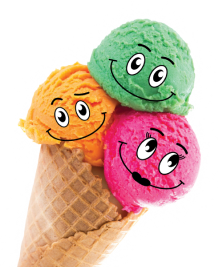
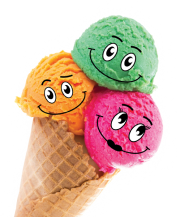
1.2

diff --git a/css/main.min.css b/css/main.min.css
@@ -1,1 +1,1 @@
-body{background-color:#84a178}h1,h2,h3,h4,p{margin-top:0;margin-bottom:0}ul{margin-top:0;margin-bottom:0;padding:0}img{display:block;max-width:100%;height:auto}button{cursor:pointer}.list{list-style:none}.link{text-decoration:none}.container{padding-left:20px;padding-right:20px}@media screen and (min-width: 480px){.container{margin-left:auto;margin-right:auto;width:480px}}@media screen and (min-width: 768px){.container{width:768px}}@media screen and (min-width: 1200px){.container{width:1200px;padding:0}}.header{margin-top:14px;margin-bottom:40px}.header__container{display:flex;align-content:center;justify-content:space-between;margin:auto}.mobile-menu__btn{background-color:rgba(0,0,0,0);border:none}.logo-top{position:relative}.logo-top__ce{font-family:Seymour One;font-size:18px;font-weight:400;line-height:22px;letter-spacing:-0.1em;position:absolute;transform:translateY(110%) translateX(-20%)}@supports(-webkit-text-stroke: 0.88px #F8D24E){.logo-top__ce{text-shadow:none;color:rgba(0,0,0,0);-webkit-text-stroke:.88px #f8d24e}}.title{font-family:"Seymour One";font-size:26px;font-weight:400;line-height:33px;letter-spacing:.04em;text-transform:uppercase;color:#fcfcfc;max-width:250px}.title__span{font-size:33px}.products-btn{font-family:"Montserrat";font-weight:600;font-size:12px;line-height:15px;padding:11px 26px;color:#000;background-color:rgba(0,0,0,0);border:2px solid #f8d24e;border-radius:8px;margin-top:32px;margin-right:12px}.hero__link{font-family:"Montserrat";font-weight:600;font-size:12px;line-height:15px;text-decoration-line:underline;color:#f8d24e}.hero__images{position:relative;width:320px;height:200px;padding-right:20px}.hero__image-dots{position:absolute;transform:translate(-15px, 130px);overflow-x:hidden;transition:transform 700ms cubic-bezier(0.39, 0.575, 0.565, 1)}.hero__image-icecream{position:absolute;transform:translate(70px, -10px);transition:transform 700ms cubic-bezier(0.39, 0.575, 0.565, 1)}/*# sourceMappingURL=main.min.css.map */
+body{background-color:#84a178}h1,h2,h3,h4,p{margin-top:0;margin-bottom:0}ul{margin-top:0;margin-bottom:0;padding:0}img{display:block;max-width:100%;height:auto}button{cursor:pointer}.list{list-style:none}.link{text-decoration:none}.container{padding-left:20px;padding-right:20px}@media screen and (min-width: 480px){.container{margin-left:auto;margin-right:auto;width:480px}}@media screen and (min-width: 768px){.container{width:768px}}@media screen and (min-width: 1200px){.container{width:1200px;padding:0}}.header{margin-top:12px;margin-bottom:50px}.header__container{display:flex;align-content:center;justify-content:space-between;margin:auto}.mobile-menu__btn{background-color:rgba(0,0,0,0);border:none}.logo-top{position:relative}.logo-top__ce{font-family:Seymour One;font-size:18px;font-weight:400;line-height:22px;letter-spacing:-0.1em;position:absolute;transform:translateY(110%) translateX(-20%)}@supports(-webkit-text-stroke: 0.88px #F8D24E){.logo-top__ce{text-shadow:none;color:rgba(0,0,0,0);-webkit-text-stroke:.88px #f8d24e}}.title{font-family:"Seymour One";font-size:26px;font-weight:400;line-height:33px;letter-spacing:.04em;text-transform:uppercase;color:#fcfcfc;max-width:250px}.title__span{font-size:34px}.products-btn{font-family:"Montserrat";font-weight:600;font-size:12px;line-height:15px;padding:11px 26px;color:#000;background-color:rgba(0,0,0,0);border:2px solid #f8d24e;border-radius:8px;margin-top:32px;margin-right:12px}.hero__link{font-family:"Montserrat";font-weight:600;font-size:12px;line-height:15px;text-decoration-line:underline;color:#f8d24e}.hero__images{position:relative}.hero__image-dots{position:absolute;max-width:100vw;transform:translate(-10px, 150px);transition:transform 800ms cubic-bezier(0.39, 0.575, 0.565, 1)}.hero__image-icecream{position:absolute;transform:translate(60px, -15px);transition:transform 800ms cubic-bezier(0.39, 0.575, 0.565, 1)}/*# sourceMappingURL=main.min.css.map */

diff --git a/css/main.css b/css/main.css
@@ -59,8 +59,8 @@ button {
 }
 
 .header {
-  margin-top: 14px;
-  margin-bottom: 40px;
+  margin-top: 12px;
+  margin-bottom: 50px;
 }
 
 .header__container {
@@ -108,7 +108,7 @@ button {
 }
 
 .title__span {
-  font-size: 33px;
+  font-size: 34px;
 }
 
 .products-btn {
@@ -136,20 +136,17 @@ button {
 
 .hero__images {
   position: relative;
-  width: 320px;
-  height: 200px;
-  padding-right: 20px;
 }
 
 .hero__image-dots {
   position: absolute;
-  transform: translate(-15px, 130px);
-  overflow-x: hidden;
-  transition: transform 700ms cubic-bezier(0.39, 0.575, 0.565, 1);
+  max-width: 100vw;
+  transform: translate(-10px, 150px);
+  transition: transform 800ms cubic-bezier(0.39, 0.575, 0.565, 1);
 }
 
 .hero__image-icecream {
   position: absolute;
-  transform: translate(70px, -10px);
-  transition: transform 700ms cubic-bezier(0.39, 0.575, 0.565, 1);
+  transform: translate(60px, -15px);
+  transition: transform 800ms cubic-bezier(0.39, 0.575, 0.565, 1);
 }/*# sourceMappingURL=main.css.map */

diff --git a/sass/layout/_hero.scss b/sass/layout/_hero.scss
@@ -13,7 +13,7 @@ max-width: 250px;
 }
 
 .title__span {
-  font-size: 33px;
+  font-size: 34px;
 }
 
 .products-btn {
@@ -41,21 +41,17 @@ margin-right: 12px;
 
 .hero__images{
 position: relative;
-width: 320px;
-height: 200px;
-padding-right: 20px;
-
 }
 
 .hero__image-dots {
   position: absolute;
-  transform: translate(-15px, 130px);
-  overflow-x: hidden;
-  transition: transform 700ms cubic-bezier(0.39, 0.575, 0.565, 1);
+  max-width: 100vw;
+  transform: translate(-10px, 150px);
+  transition: transform 800ms cubic-bezier(0.39, 0.575, 0.565, 1);
 }
 
 .hero__image-icecream {
   position: absolute;
-  transform: translate(70px, -10px);
-  transition: transform 700ms cubic-bezier(0.39, 0.575, 0.565, 1);
+  transform: translate(60px, -15px);
+  transition: transform 800ms cubic-bezier(0.39, 0.575, 0.565, 1);
 }

diff --git a/index.html b/index.html
@@ -34,9 +34,15 @@
 
 <a class="link hero__link" href="">How it’s made?</a>
 <div class="hero__images">
-<svg class="hero__image-dots" width="" height="">
-  <use href="images/icons.svg#icon-dots"></use>
-</svg>
+  <picture class="hero__image-dots">
+    <source srcset="./images/bg-dots-mobile@1x.webp 1x, ./images/bg-dots-mobile@2x.webp 2x"
+     type="image/webp" 
+     />
+  
+      <source srcset="./images/bg-dots-mobile@1x.png 1x, ./images/bg-dots-mobile@2x.png 2x"
+       />
+       <img src="./images/bg-dots-mobile@1x.png" alt="dots-design" />
+  </picture>
 <picture class="hero__image-icecream">
   <source srcset="./images/bg-icecream-mobile@1x.webp 1x, ./images/bg-icecream-mobile@2x.webp 2x"
    type="image/webp" 

diff --git a/sass/layout/_header.scss b/sass/layout/_header.scss
@@ -1,6 +1,6 @@
 .header {
-    margin-top: 14px;
-    margin-bottom: 40px;
+    margin-top: 12px;
+    margin-bottom: 50px;
 }
 
 .header__container {
